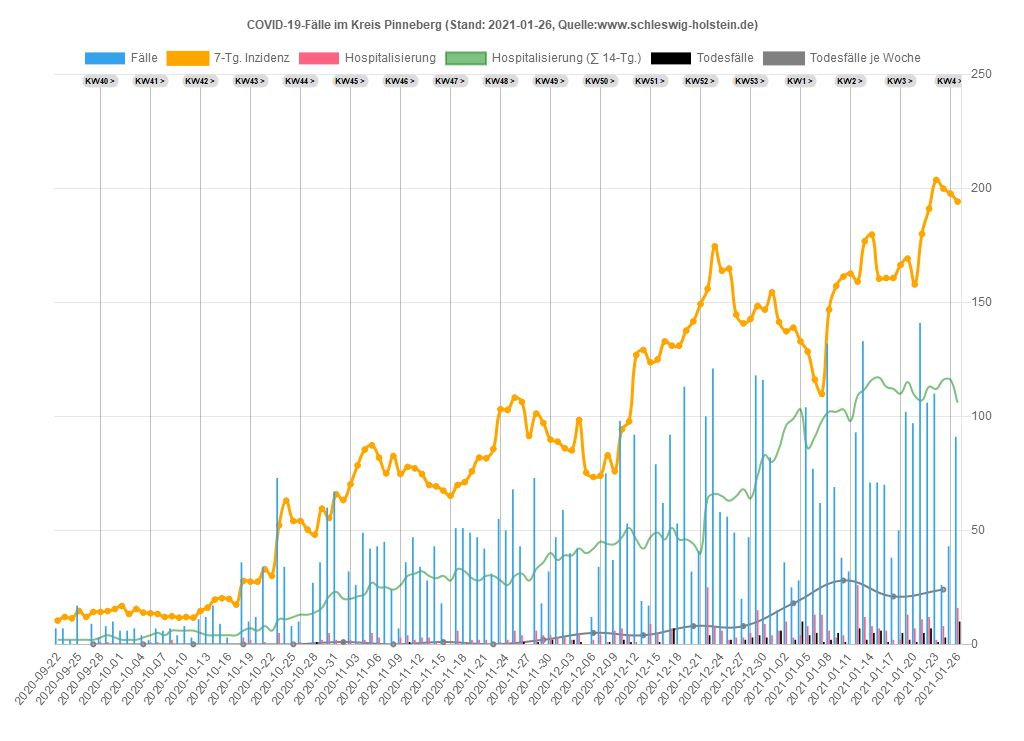
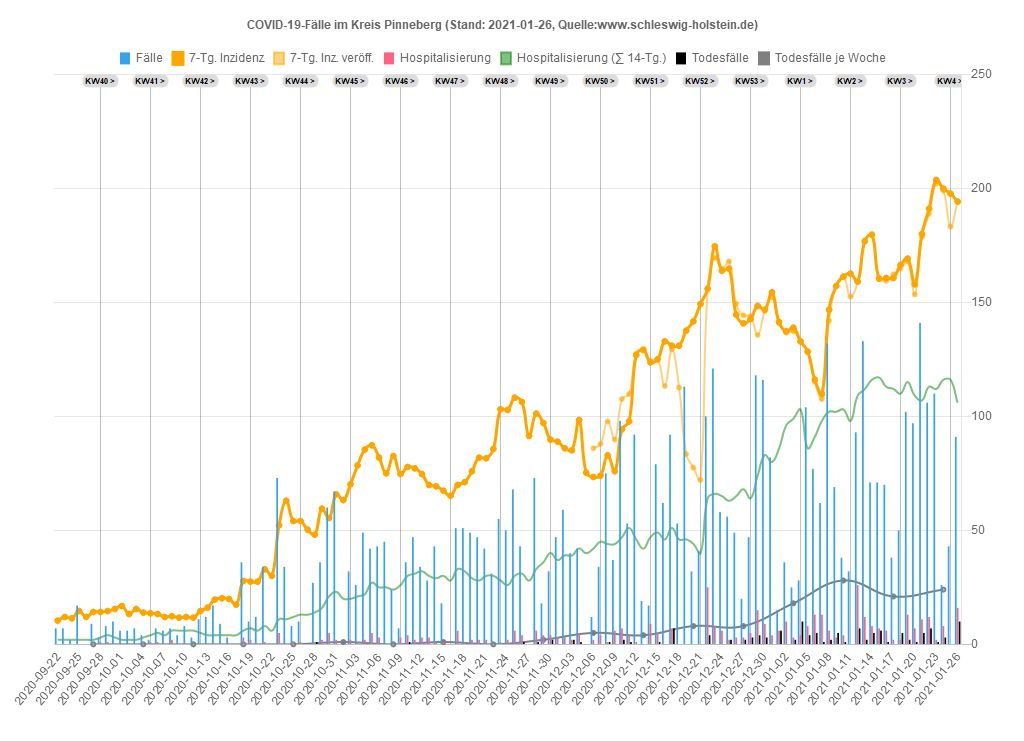
27.01.2021  9:55:27,22

diff --git a/sh/index.html b/sh/index.html
@@ -5,7 +5,7 @@
 <meta property="og:image" content="index.jpg" />
 <meta property="og:type" content="website" />
 <meta property="og:locale" content="de_DE" />
-<meta property="og:updated_time" content="2021-01-27T07:04:53+01:00" />
+<meta property="og:updated_time" content="2021-01-27T09:55:27+01:00" />
 <title>COVID-19-Fälle im Kreis Pinneberg</title>
 <link rel="stylesheet" href="../css/style.css" media="screen" type="text/css">
 <link rel="stylesheet" media="screen" href="Chart.min.css"> 
@@ -21,10 +21,17 @@
 <br/>
 <h2 id="Anmerkungen">Anmerkungen</h2>
 <ul>
-<li>Hospitalisierung (∑ 14-Tg.): Diese Linie zeigt die Summe der Hospitalisierungen in den jeweils 14 zurückliegenden Tagen.
+<li><strong>7-Tg. Inz.:</strong><br />
+Zeigt für den neuesten Tag die auf schleswig-holstein.de gezeigte regionale Inzidenz. Für zurückliegende Tage wird die Inzidenz anhand der Nachmeldungen täglich aktualisiert.
+</li>
+<li><strong>7-Tg. Inz. veröff.:</strong><br />
+Zeigt rückwirkend alle gemeldeten 7-Tage Inzidenzen ohne Korrekturen durch Nachmeldungen an Folgetagen. Größere Abweichungen sind meist einem kompletten Meldeausfall an den jeweiligen Tagen geschuldet.
+<br/>(Jede Datenreihe kann durch Klick auf die Legende ein-/ausgeblendet werden.)
+</li>
+<li><strong>Hospitalisierung (∑ 14-Tg.)</strong><br />Diese Linie zeigt die Summe der Hospitalisierungen in den jeweils 14 zurückliegenden Tagen.
 Die Zahl 14 ist nicht willkürlich gewählt, sondern basiert auf einer 
 <a href="https://www.ruhrbarone.de/mit-covid-19-ins-krankenhaus-1-von-5-patienten-stirbt-stationaer/192045">hier veröffentlichten Untersuchung</a> aus der sich ein durchschnittlicher Krankenhausaufenthalt (bzgl. COVID-19) von 13.7 Tagen ableiten lassen kann.</li>
-<li>Diese Grafik basiert auf der unter <a href="https://www.schleswig-holstein.de/DE/Schwerpunkte/Coronavirus/Zahlen/zahlen_node.html">www.schleswig-holstein.de</a>
+<li><strong>Daten</strong><br />Diese Grafik basiert auf der unter <a href="https://www.schleswig-holstein.de/DE/Schwerpunkte/Coronavirus/Zahlen/zahlen_node.html">www.schleswig-holstein.de</a>
 veröffentlichten <strong>&quot;CSV-Datei der Kreisdaten&quot;</strong> sowie der dort gezeigten Tabellen mit Daten je Kreis. Aufgrund verschiedener Veröffentlichungszeitpunkte kann es zu Abweichungen zu Daten des RKI kommen.</li>
 </ul>
 <script>
@@ -37,6 +44,11 @@ var opt = {
             //https://www.kreis-pinneberg.de
             text: "COVID-19-Fälle im Kreis Pinneberg (Stand: "+chdata.labels[chdata.labels.length-1]+", Quelle:www.schleswig-holstein.de)",
         },
+        legend: {
+                labels: {
+                    boxWidth: 10,
+                }
+        },  
         scales: {
             xAxes: [
             {

diff --git a/sh/Kreis_PI.js b/sh/Kreis_PI.js
@@ -13,6 +13,15 @@ pointBackgroundColor: 'orange',
 borderColor: 'orange',
 yAxisID: 'first-y-axis',
 data: [10.4,12.0,11.4,14.6,12.0213981,14.2,14.2,14.6,15.5,16.8,13.3,15.5,13.9,13.6,13.3,12.0,12.3,11.7,12.0,11.7,14.6,16.1,19.6,20.2,19.9,17.399392,27.8,27.5,27.5,32.9,30.0534952,52.2,63.0,54.1,54.1,50.3000604,48.1,59.5,55.4,65.8,63.2705163,70.2,78.5,85.4,87.3,81.9,75.0,82.6,74.7,77.8,77.2,74.7,69.9,69.3,67.4,65.1686317,69.9,71.2,75.9,81.9,81.6,85.7,103.1,102.8,108.2,106.3,91.425896,101.2,97.1,89.8,88.9,86.0,85.1,98.4,75.2919143,73.4,74.0,82.9,75.9,94.3,97.8,126.9,129.1,123.7,125.0,132.9,131.0,131.0,137.6,141.7,149.3,156.0,174.6,163.9,164.8,144.6,140.8,142.7,148.4,146.8,154.4,141.4,137.3,138.9,132.9,128.4,116.1,109.8,146.8,157.2,161.3,162.6,159.1,176.8,179.7,160.4,160.7,160.7,166.4,169.2,157.9,180.0,191.1,203.7,199.9,197.7,194.2]},
+{label: '7-Tg. Inz. veröff.',
+type: 'line',
+fill: false,
+pointBackgroundColor: 'rgba(255,165,0,0.5)',
+borderColor: 'rgba(255,165,0,0.5)',
+borderWidth: 2,
+pointRadius: 2,
+yAxisID: 'first-y-axis',
+data: [,,,,,,,,,,,,,,,,,,,,,,,,,,,,,,,,,,,,,,,,,,,,,,,,,,,,,,,,,,,,,,,,,,,,,,,,,,,86.0,87.9,97.8,89.8,107.6,109.8,127.5,129.7,124.3,125.0,113.3,129.4,112.6,83.5,77.5,72.1,155.6,169.6,164.8,168.0,149.3,144.3,143.9,135.7,146.2,152.2,140.8,136.7,137.3,132.9,128.4,115.2,107.6,142.0,157.2,161.3,152.5,159.1,177.2,179.4,160.7,159.4,162.3,164.8,168.0,153.4,178.7,188.9,202.1,199.0,183.2,194.2]},
 {label: 'Hospitalisierung',
 type: 'bar',
 backgroundColor: window.chartColors.red,

diff --git a/sh/index_sh_alter.html b/sh/index_sh_alter.html
@@ -5,7 +5,7 @@
 <meta property="og:image" content="index_sh_alter.jpg" />
 <meta property="og:type" content="website" />
 <meta property="og:locale" content="de_DE" />
-<meta property="og:updated_time" content="2021-01-27T07:04:53+01:00" />
+<meta property="og:updated_time" content="2021-01-27T09:55:27+01:00" />
 <title>Altersverteilung der COVID-19-Fälle in Schleswig-Holstein</title>
 <link rel="stylesheet" href="../css/style.css" media="screen" type="text/css">
 <link rel="stylesheet" media="screen" href="Chart.min.css"> 

diff --git a/sh/index_pi_alter.html b/sh/index_pi_alter.html
@@ -5,7 +5,7 @@
 <meta property="og:image" content="index_pi_alter.jpg" />
 <meta property="og:type" content="website" />
 <meta property="og:locale" content="de_DE" />
-<meta property="og:updated_time" content="2021-01-27T07:04:53+01:00" />
+<meta property="og:updated_time" content="2021-01-27T09:55:27+01:00" />
 <title>Altersverteilung der COVID-19-Fälle im Kreis Pinneberg</title>
 <link rel="stylesheet" href="../css/style.css" media="screen" type="text/css">
 <link rel="stylesheet" media="screen" href="Chart.min.css"> 
